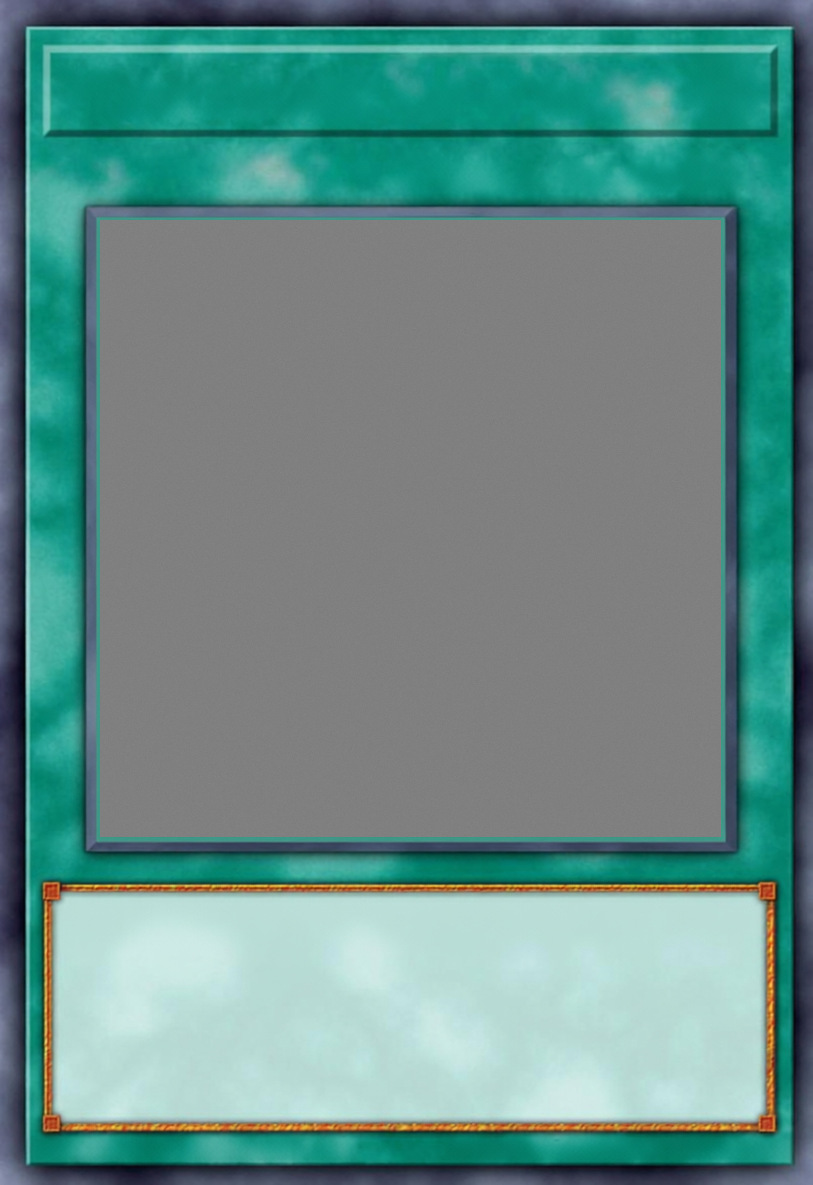
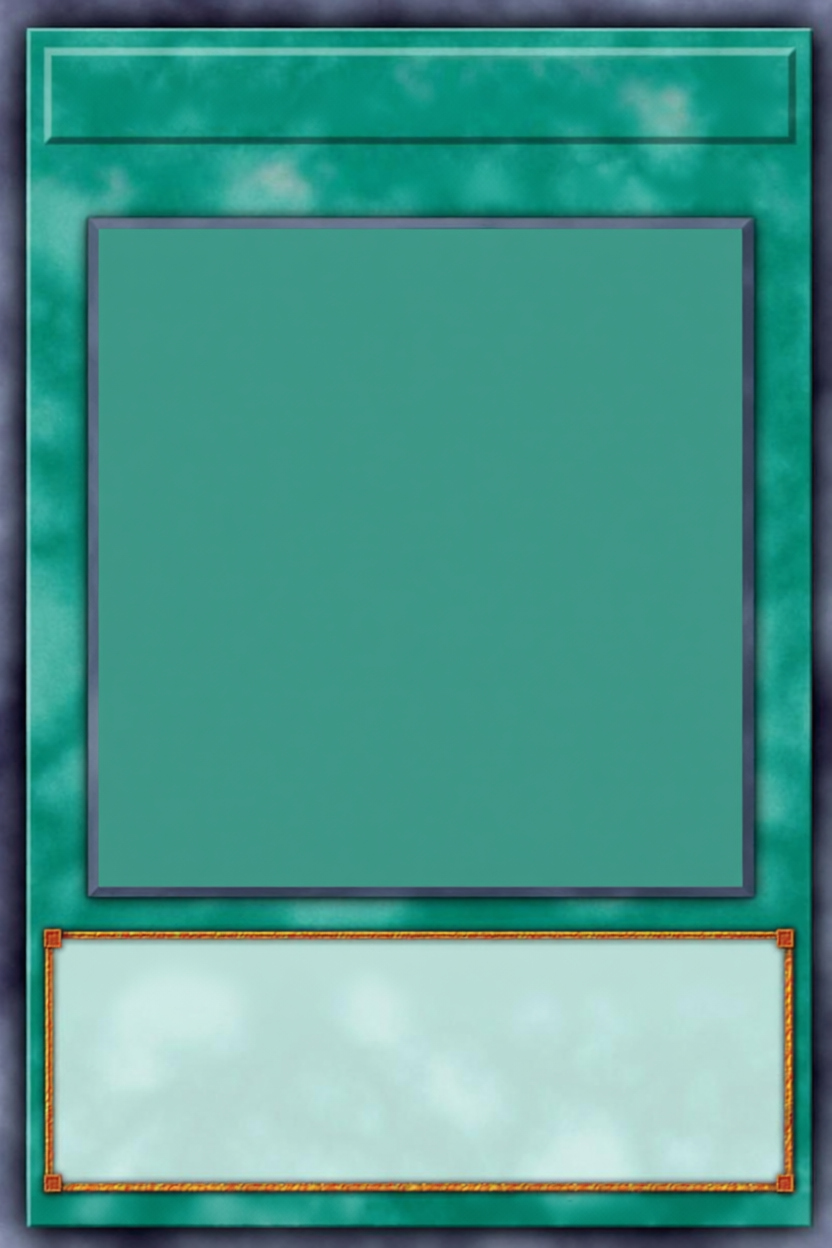
molduras originais restauradas byte-identicas, preview 832/1248, D38 trava sem edicao

diff --git a/astralis-studio/src/lib/components/CardPreview.svelte b/astralis-studio/src/lib/components/CardPreview.svelte
@@ -175,11 +175,12 @@
 </script>
 
 <div class="w-full max-w-[320px] mx-auto" style="container-type: inline-size;">
-  <!-- Carta 813x1185 (0,6861 = 59/86). FUNDO = moldura JPG cobrindo tudo;
+  <!-- Carta segue a moldura original 832x1248 (D38 corrigida: molduras do
+       usuário, sem edição). FUNDO = moldura JPG cobrindo tudo;
        campos por cima nas posições do molde. Fundo escuro só ao carregar. -->
   <div
     class="w-full relative overflow-hidden"
-    style="aspect-ratio: 813 / 1185; border-radius: 2cqw; background: #1c130a; box-shadow: 0 10px 30px rgba(0,0,0,0.55);"
+    style="aspect-ratio: 832 / 1248; border-radius: 2cqw; background: #1c130a; box-shadow: 0 10px 30px rgba(0,0,0,0.55);"
     title="Moldura: {FRAME_LABELS[moldura] ?? moldura}"
   >
     <img src={molduraSrc} alt="" aria-hidden="true" class="absolute inset-0 w-full h-full" style="object-fit: fill;" />

diff --git a/docs/DECISOES.md b/docs/DECISOES.md
@@ -40,4 +40,4 @@
 - D35 2026-09-25: Pack de criação é arquivo único `.apack` (zip com manifest APACK format 1 + data/pack.json idêntico ao legado + assets/ com dedup por hash + preview opcional); `.json` antigo abre como sem-imagens; fita `.astralis` segue trancada. | motivo: pedido do usuário — texto + imagem num arquivo só com extensão nossa | impacto: tools/apack.py pack/unpack/check, Rust apack.rs + importar/exportar, limites 5MB/200MB/250MB/5000, ZipSlip vale p/ zip e manifest
 - D36 2026-09-25: Layout da carta é MOLDE EM DADO (card_layout V1, kinds fechados, canvas 59x86 por-mil, defaults = scan real); jogo desenha pelo molde (sem = embutido); editor tem aba Molde (arrastar/redimensionar/estilo + salvar em layouts/); id máx 64 nos dois lados. | motivo: pedido do usuário — layout totalmente modificável, simples e poderoso | impacto: schema novo + default oficial, card_layout.gd + card_view.gd, LayoutStudio, GUT trava Rust x jogo
 - D37 2026-09-27: Molduras JPG viram o padrão visual da carta no editor (6 fundos por tipo) + atributos/estrela/verso como imagens padrão; carta ganha `card_back` opcional (vazio = verso padrão). | motivo: pedido do usuário — molduras próprias com espaços prontos | impacto: CardPreview por imagem, static/frames+attributes+estrelas+backs, card.schema + checar_carta + fm_import aceitam card_back
-- D38 2026-09-27: Carta com dimensões e alinhamento das referências 813x1185 (proporção original 59x86): 6 molduras LIMPAS (conteúdo antigo apagado, arte cinza + caixa creme vazias) + preview com fonte única de medida nas molduras + molde oficial + jogo + testes espelhados. | motivo: pedido do usuário — tudo alinhado igual às imagens, refeito do zero | impacto: 6 JPGs limpos, CardPreview 813/1185 fonte única, card_layout default/jogo/testes novos, GUT 116/116
+- D38 2026-09-27: Carta usa as 6 molduras ORIGINAIS do usuário sem nenhuma edição (byte-idênticas a Downloads/Imagens/Moldura, 832x1248); preview segue a proporção das molduras com fonte única de medida + molde oficial + jogo + testes espelhados. É PROIBIDO editar as molduras sem pedido explícito. | motivo: ordem do usuário — molduras certas, sem edição de agente | impacto: 6 JPGs originais, CardPreview 832/1248 fonte única, card_layout default/jogo/testes, GUT 116/116

diff --git a/docs/SESSAO_ATUAL.md b/docs/SESSAO_ATUAL.md
@@ -7,7 +7,7 @@
 > Regra de manutenção: não apagar histórico útil; corrigir contradições quando forem comprovadas; registrar mudanças de regra/especificação; não inventar testes ou resultados.
 
 ```yaml
-onde_estamos: "Carta refeita do zero D38 (2026-09-27): 6 molduras limpas 813x1185 + preview fonte unica medida nelas + molde+jogo+testes espelhados. GUT 116/116 1877 asserts, cargo 101, check 0, fm_import verde. Commit b701d83. Git limpo."
+onde_estamos: "Molduras originais restauradas (2026-09-27, ordem do usuario): 6 JPGs byte-identicos, sem edicao de agente (D38 trava), preview na proporcao delas 832/1248. Check 0. Git limpo."
 
 # ---------- O QUE FIZEMOS NESTA SESSÃO (2026-09-25) ----------
 
@@ -67,7 +67,7 @@ estado_cargo: "101 testes Rust (88 + 13 molde/id). ZERO teste de frontend ainda.
 
 estado_dados: "schemas/examples = 722 fm_* / 39 duelistas / 39 decks (40 cada) / 25081 receitas / 0 regras / arena_starter / duel_fm_abertura 8000LP. pack = 25131 receitas (25081 + 50 A+A que nunca disparam). starter_backup = 40 cartas custom SO de teste. PROJETO DO EDITOR = astralis-studio/projects/default/ (sempre vazio no boot, so via Importar)."
 
-proximo_passo: "Colocar as imagens lado a lado com as referencias e conferir perfeito."
+proximo_passo: "Abrir o Studio e conferir as molduras originais nas cartas."
 
 # ---------- TRAVAS (regras, nao dividas) ----------
 
